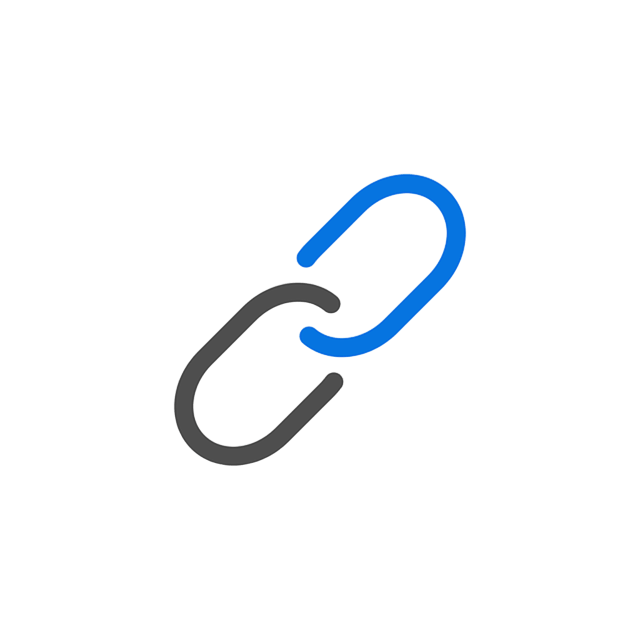
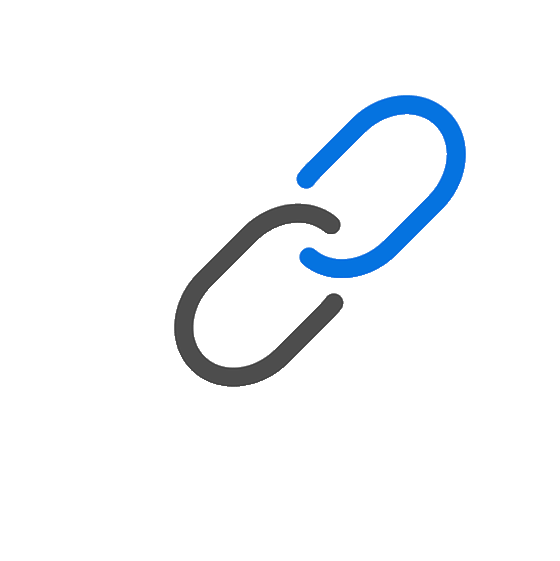
layout categirias

Changed region(s): [[0.2732, 0.1515, 0.85, 0.7273]]

diff --git a/src/pages/FotosPage.vue b/src/pages/FotosPage.vue
@@ -2,12 +2,12 @@
   <div style="height: 1px">
     <q-linear-progress v-if="showProgress" indeterminate color="amber-7" />
   </div>
-  <div class="q-pl-md q-pt-md" style="width: 100%; max-width: 40rem; margin: 0 auto">
-    <q-breadcrumbs class="q-pb-sm">
+  <div class="q-pa-md ibg">
+    <q-breadcrumbs class="q-mb-sm">
       <q-breadcrumbs-el label="Fotos" icon="image" />
     </q-breadcrumbs>
 
-    <div class="categorias ibg">
+    <div class="categorias">
       <div class="q-gutter-sm">
         <div class="text-h6">
           <router-link
@@ -135,16 +135,16 @@ onMounted(() => {
 });
 </script>
 <style scoped>
-.categorias {
-  height: calc(100svh - 127px);
-  display: flex;
-  flex-wrap: wrap;
-}
-
 .ibg {
   background-image: url('../assets/fundofotos.png');
-  background-repeat: no-repeat;
-  background-size: 65% auto;
-  background-position: right top;
+  background-repeat: repeat-y;
+  background-size: 50% auto;
+  background-position: top right;
+}
+
+.categorias {
+  height: calc(100svh - 142px);
+  display: flex;
+  flex-wrap: wrap;
 }
 </style>

diff --git a/src/pages/CifrasPage.vue b/src/pages/CifrasPage.vue
@@ -2,11 +2,11 @@
   <div style="height: 1px">
     <q-linear-progress v-if="showProgress" indeterminate color="amber-7" />
   </div>
-  <div class="q-pl-md q-pt-md" style="width: 100%; max-width: 40rem; margin: 0 auto">
+  <div class="q-pa-md ibg">
     <q-breadcrumbs class="q-mb-sm">
       <q-breadcrumbs-el label="Cifras" icon="music_note" />
     </q-breadcrumbs>
-    <div class="categorias ibg">
+    <div class="categorias">
       <div class="q-gutter-sm">
         <div class="text-h6">
           <router-link
@@ -85,16 +85,16 @@ onMounted(() => {
 </script>
 
 <style scoped>
-.categorias {
-  height: calc(100svh - 127px);
-  display: flex;
-  flex-wrap: wrap;
-}
-
 .ibg {
   background-image: url('../assets/cifras.png');
-  background-size: 60% auto;
-  background-repeat: no-repeat;
-  background-position: right top;
+  background-repeat: repeat-y;
+  background-size: 50% auto;
+  background-position: top right;
+}
+
+.categorias {
+  height: calc(100svh - 142px);
+  display: flex;
+  flex-wrap: wrap;
 }
 </style>

diff --git a/src/pages/AulasPage.vue b/src/pages/AulasPage.vue
@@ -2,12 +2,12 @@
   <div style="height: 1px">
     <q-linear-progress v-if="showProgress" indeterminate color="amber-7" />
   </div>
-  <div class="q-pl-md q-pt-md" style="width: 100%; max-width: 40rem; margin: 0 auto">
+  <div class="q-pa-md ibg">
     <q-breadcrumbs class="q-mb-sm">
       <q-breadcrumbs-el label="Aulas" icon="school" />
     </q-breadcrumbs>
 
-    <div class="categorias ibg">
+    <div class="categorias">
       <div class="q-gutter-sm">
         <div class="text-h6">
           <router-link
@@ -76,16 +76,16 @@ onMounted(() => {
 </script>
 
 <style scoped>
-.categorias {
-  height: calc(100svh - 127px);
-  display: flex;
-  flex-wrap: wrap;
-}
-
 .ibg {
   background-image: url('../assets/fundoaulas.png');
   background-repeat: no-repeat;
-  background-size: 55% auto;
-  background-position: right bottom;
+  background-size: 50% auto;
+  background-position: right center;
+}
+
+.categorias {
+  height: calc(100svh - 142px);
+  display: flex;
+  flex-wrap: wrap;
 }
 </style>

diff --git a/src/pages/LinksPage.vue b/src/pages/LinksPage.vue
@@ -2,11 +2,11 @@
   <div style="height: 1px">
     <q-linear-progress v-if="showProgress" indeterminate color="amber-7" />
   </div>
-  <div class="q-pl-md q-pt-md" style="width: 100%; max-width: 40rem; margin: 0 auto">
+  <div class="q-pa-md ibg">
     <q-breadcrumbs class="q-mb-sm">
       <q-breadcrumbs-el label="Links" icon="link" />
     </q-breadcrumbs>
-    <div class="categorias ibg">
+    <div class="categorias">
       <div class="q-gutter-sm">
         <div class="text-h6">
           <a
@@ -65,16 +65,16 @@ a {
   text-decoration: none;
 }
 
-.categorias {
-  height: calc(100svh - 127px);
-  display: flex;
-  flex-wrap: wrap;
-}
-
 .ibg {
   background-image: url('../assets/fundolinks.png');
   background-repeat: no-repeat;
-  background-size: 60% auto;
+  background-size: 50% auto;
   background-position: right top;
+}
+
+.categorias {
+  height: calc(100svh - 142px);
+  display: flex;
+  flex-wrap: wrap;
 }
 </style>

diff --git a/src/pages/IndexPage.vue b/src/pages/IndexPage.vue
@@ -40,19 +40,16 @@ onMounted(() => {
 
 <style scoped>
 .ibg {
-  background-color: #ffffff;
-}
-</style>
-
-<style scoped>
-.ibg {
   width: 100%;
-  max-width: 40rem;
-  margin: 0 auto;
   height: calc(100vh - 81px);
   background-image: url('../assets/banjonotas.png');
   background-repeat: no-repeat;
-  background-size: 100% auto;
-  background-position: bottom center;
+  background-size: auto 57vh;
+  background-position: left bottom;
+}
+@media screen and (max-width: 700px) {
+  .ibg {
+    background-size: 100% auto;
+  }
 }
 </style>
